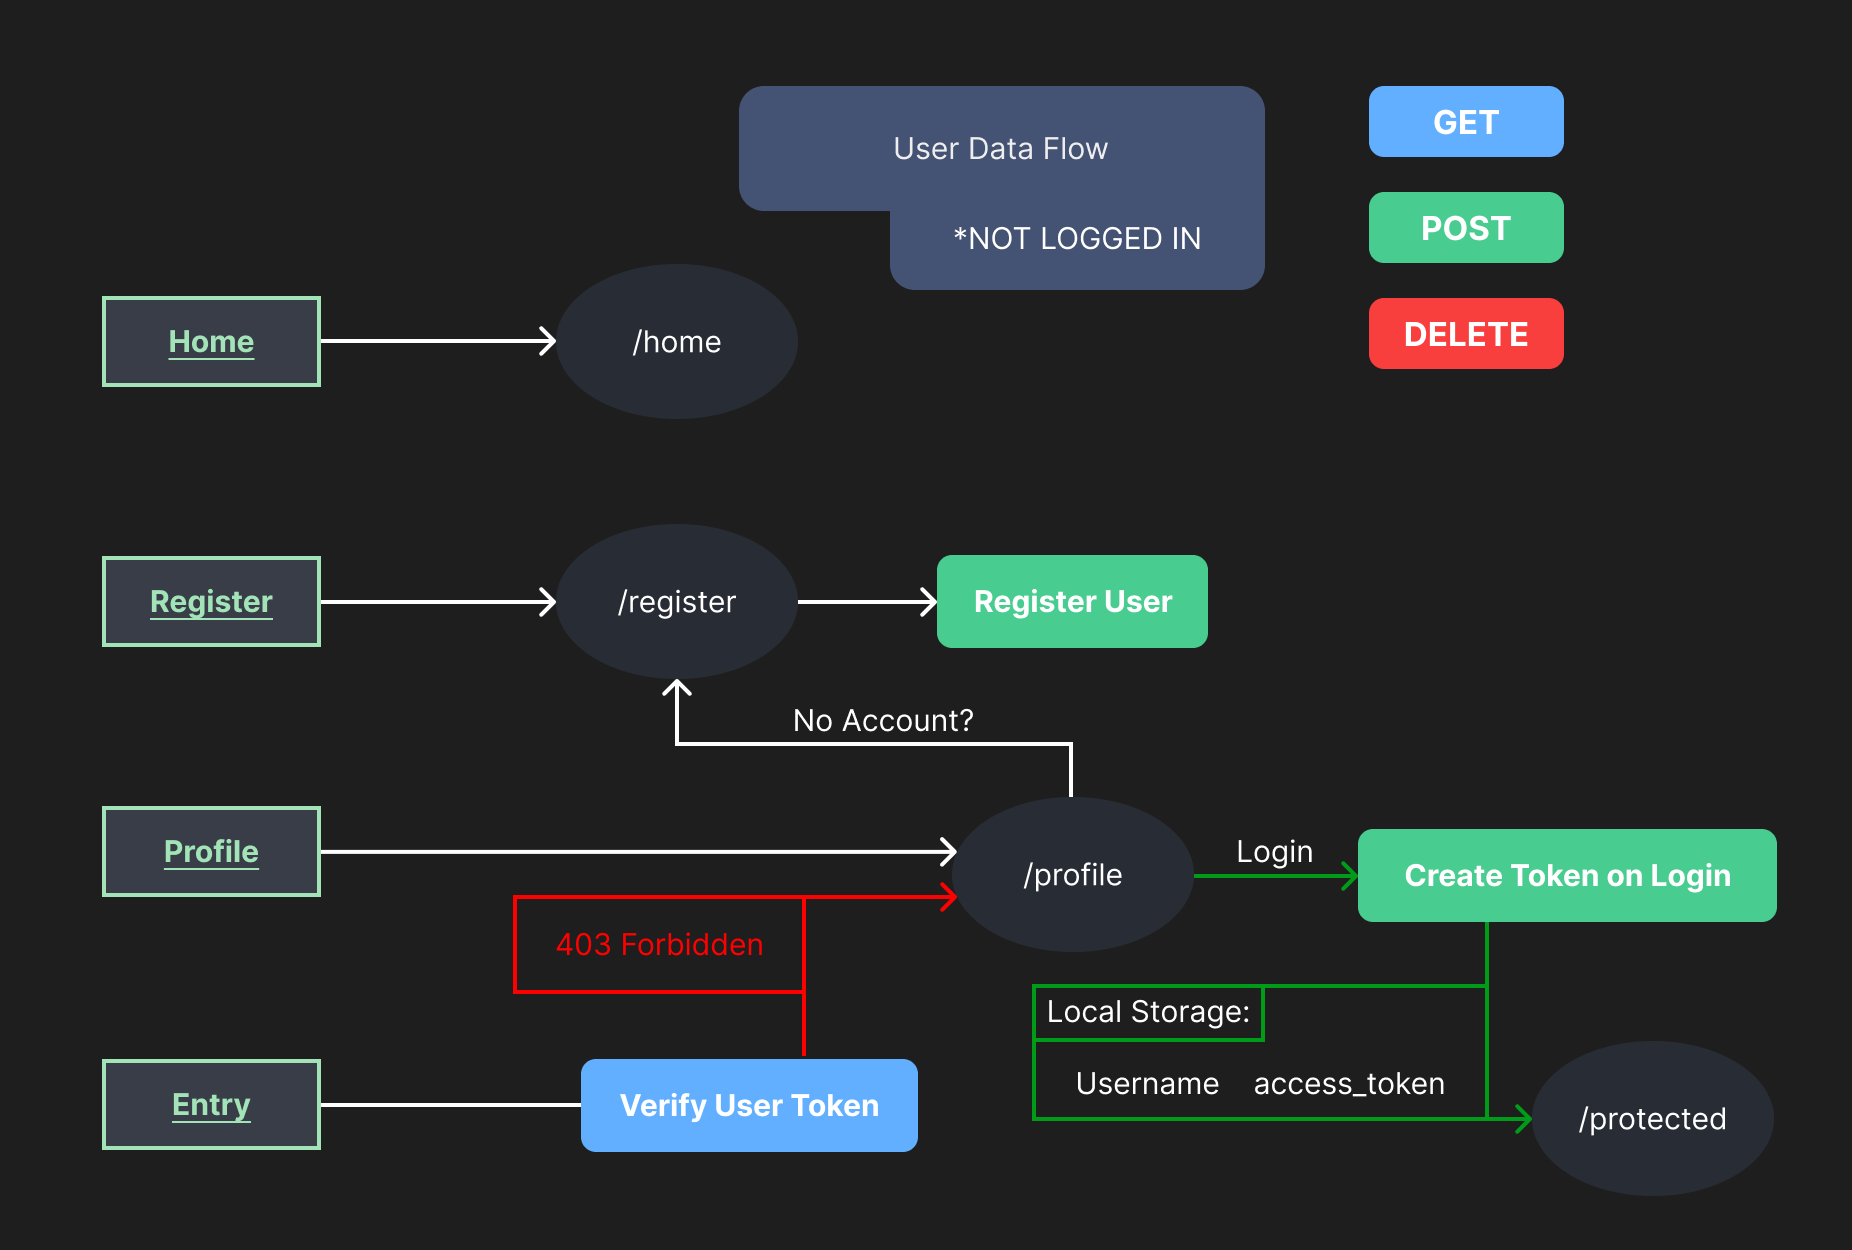
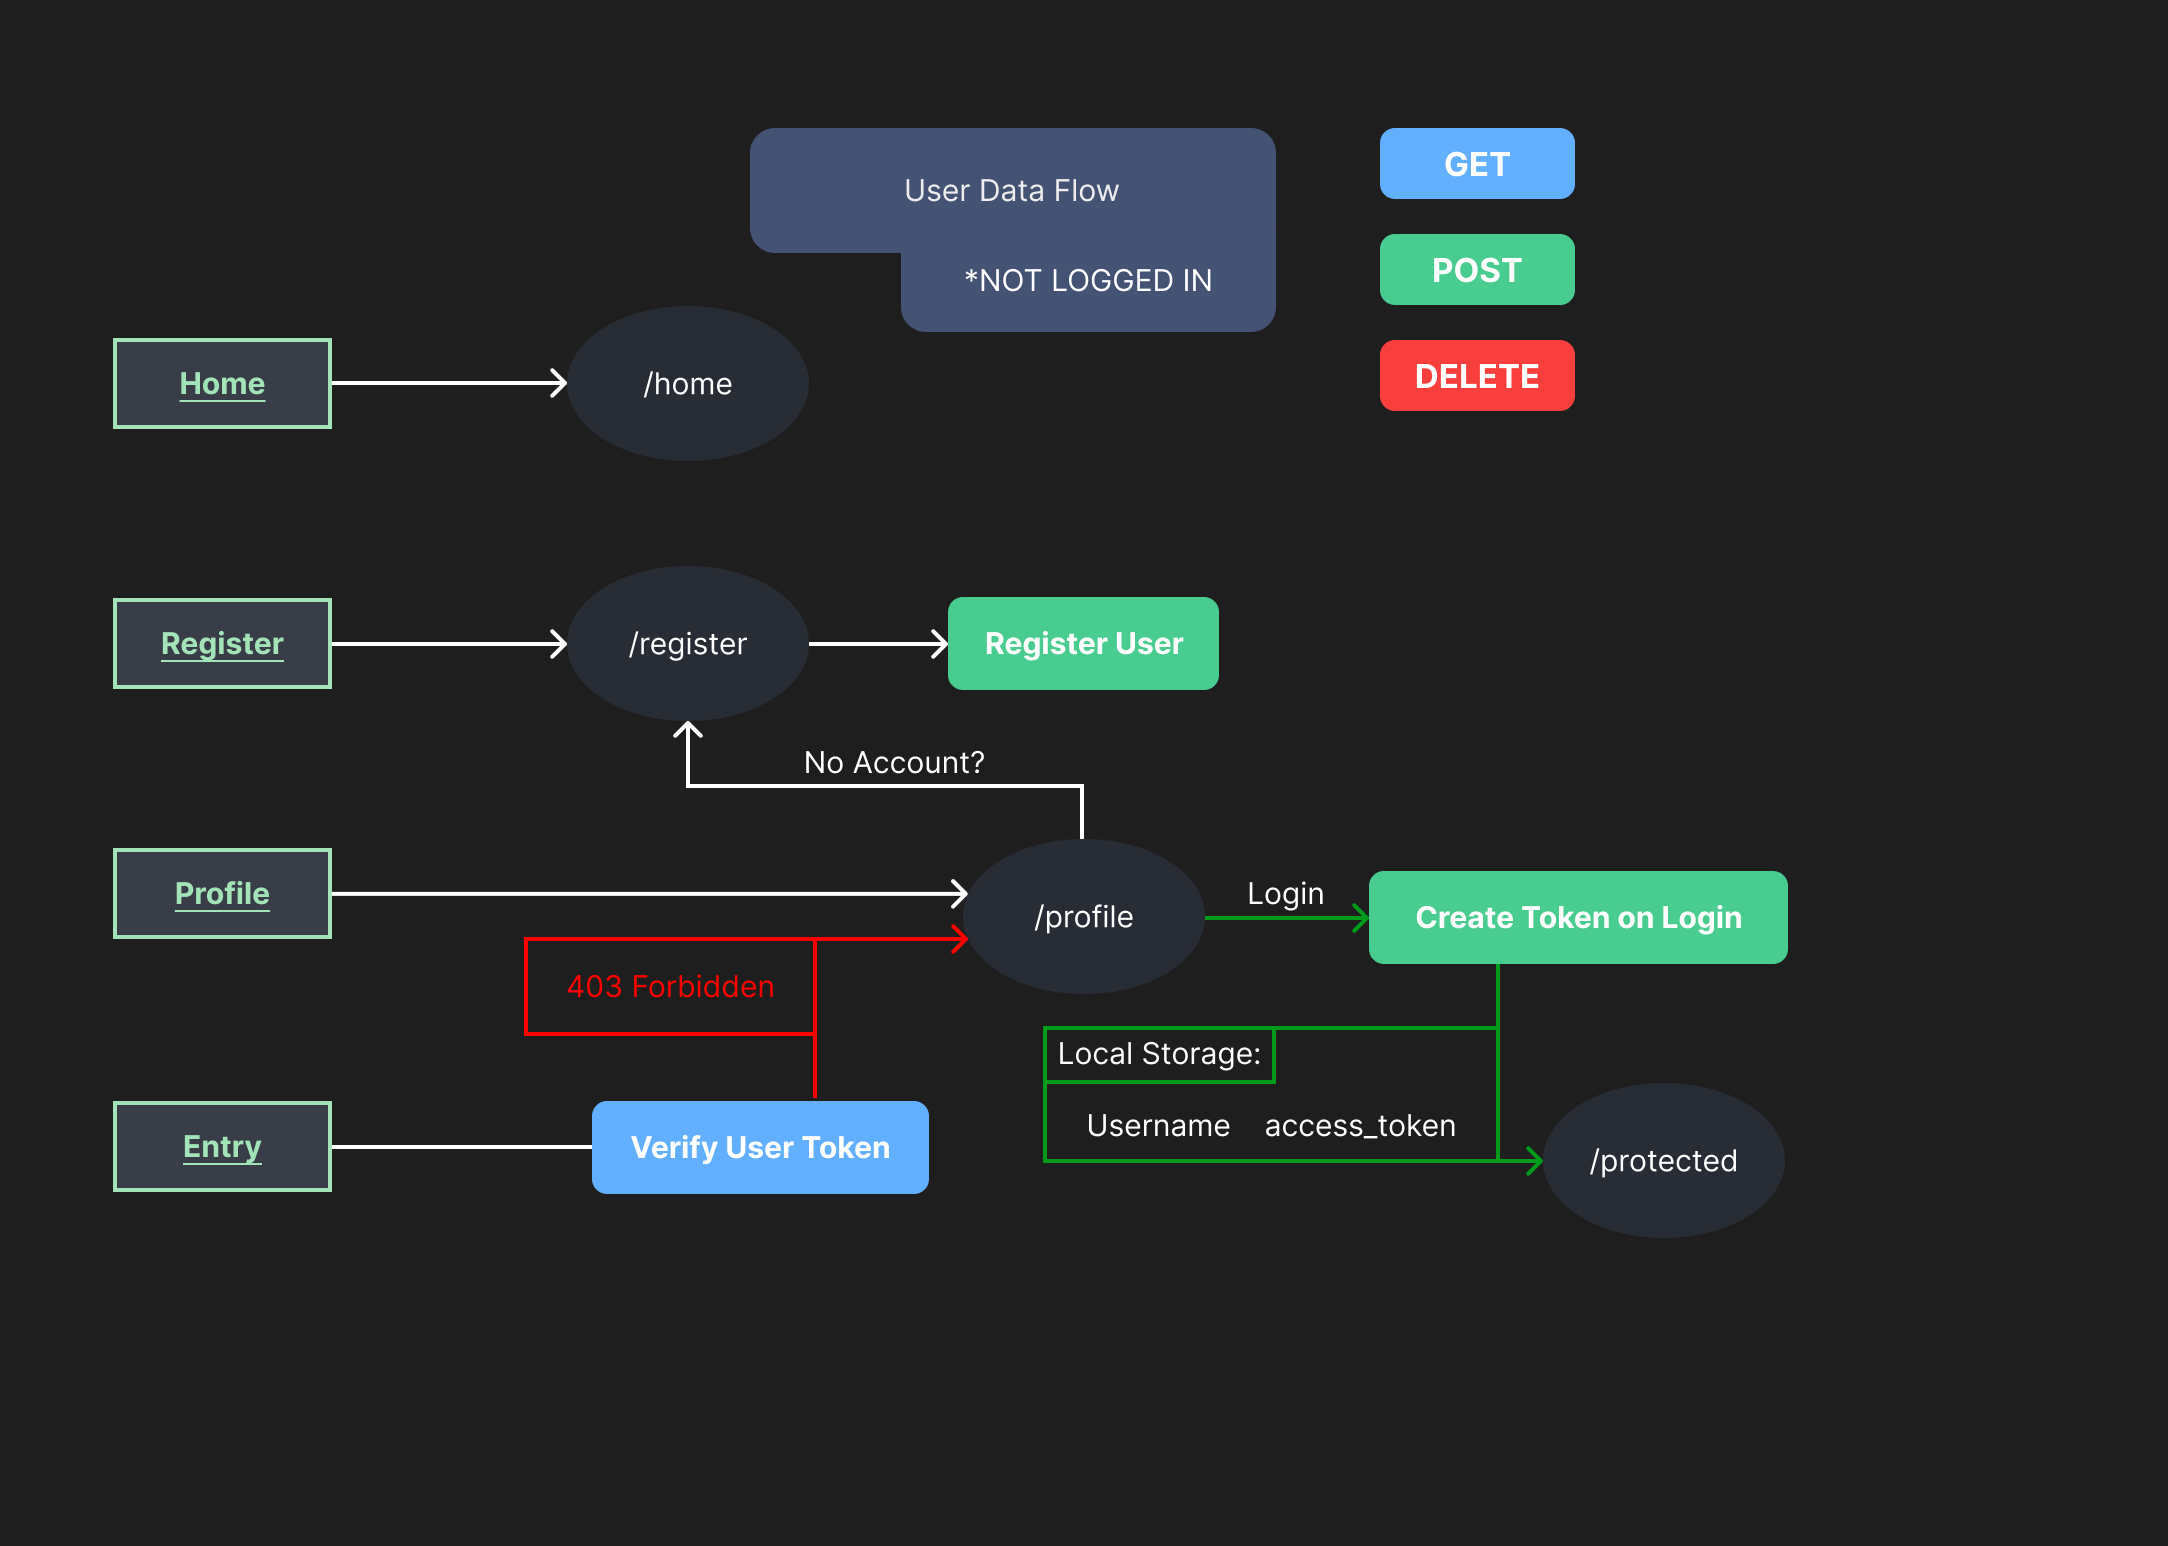
added dataflow diagram image and fixed styling on other images

diff --git a/src/pages/Home.jsx b/src/pages/Home.jsx
@@ -1,7 +1,8 @@
-import React from 'react'
-import Navbar from '../components/Navbar'
-import LoggedOut from '../assets/LoggedOut.png'
-import LoggedIn from '../assets/LoggedIn.png'
+import React from 'react';
+import Navbar from '../components/Navbar';
+import LoggedOut from '../assets/LoggedOut.png';
+import LoggedIn from '../assets/LoggedIn.png';
+import DataFlow from '../assets/DataFlow.png';
 
 export default function Home() {
   return (
@@ -35,6 +36,7 @@ export default function Home() {
         <div className='list-wrap'>
           <ul className='list-group'>
             <li className='list-group-item'>The <b>React</b> library for web and native user interfaces</li>
+            <li className='list-group-item'>The <b>Axios</b> library to parse the FastAPI JSON data to Javascript</li>
             <li className='list-group-item'>The <b>Bootstrap</b> styling toolkit</li>
             <li className='list-group-item'><b>CSS</b> styling</li>
           </ul>
@@ -47,11 +49,13 @@ export default function Home() {
             </p>
           </div>
         </section>
-        <section>
+        <section className='dataflow'>
           <h3>API-User Dataflow</h3>
-          <img className='logged-out-img' src={LoggedOut} loading="lazy" alt="Chart depicting a logged out user's API call Dataflow"></img>
-          <img className='logged-in-img' src={LoggedIn} loading="lazy" alt="Chart depicting a logged In user's API call Dataflowr"></img>
-
+          <img aria-labelledby='image-set' className='data-flow-img' src={DataFlow} loading="lazy" alt="Flow Diagram of how data transfers from frontend to backend using software packages"></img>
+          <div className='image-set'>
+            <img aria-labelledby='image-set' className='logged-out-img' src={LoggedOut} loading="lazy" alt="Chart depicting a logged out user's API call Dataflow"></img>
+            <img aria-labelledby='image-set' className='logged-in-img' src={LoggedIn} loading="lazy" alt="Chart depicting a logged In user's API call Dataflow"></img>
+          </div>
         </section>
         <footer>
 

diff --git a/src/pages/pages.css b/src/pages/pages.css
@@ -41,7 +41,8 @@ h5 {
 }
 
 img {
-    margin: 2rem 2rem 2rem 2rem;
+    margin-top: 2rem;
+    margin-bottom: 2rem;
 }
 
 footer {
@@ -92,16 +93,22 @@ Home CSS
     text-align: center;
 }
 
+.data-flow-img {
+    margin: 2rem 5% 2rem 5%;
+    max-width: 90%;
+}
+
 .logged-out-img {
+    margin-left: 5%;
+    margin-right: 5%;
     border: 0.4rem solid var(--mainColor);
-    max-width: 42%;
-    max-height: 42%;
+    max-width: 42.5%;
 }
 
 .logged-in-img {
+    margin-right: 5%;
     border: 0.4rem solid var(--mainColor);
-    max-width: 49%;
-    max-height: 49%;
+    max-width: 42.5%;
 }
 
 /*
